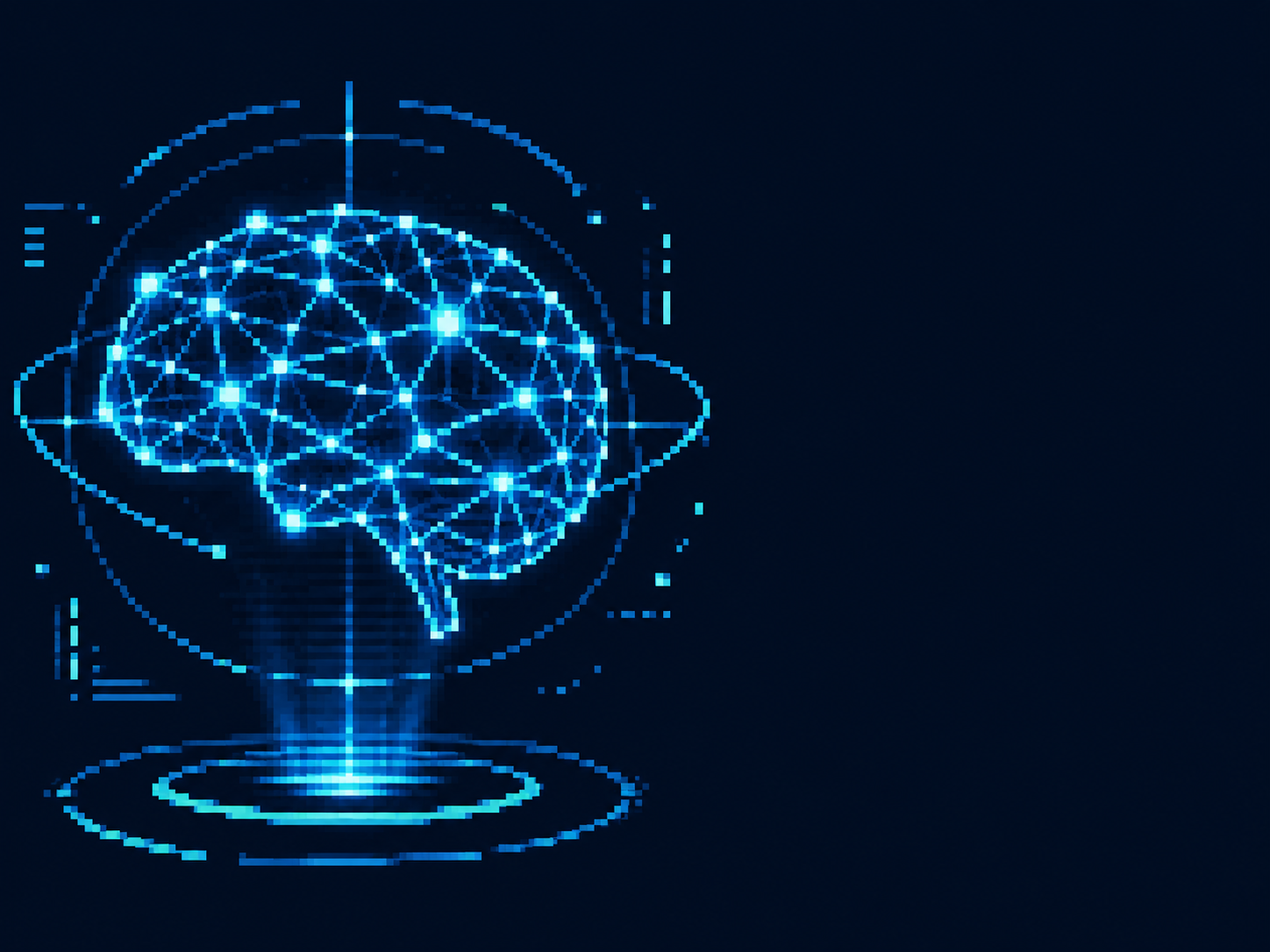
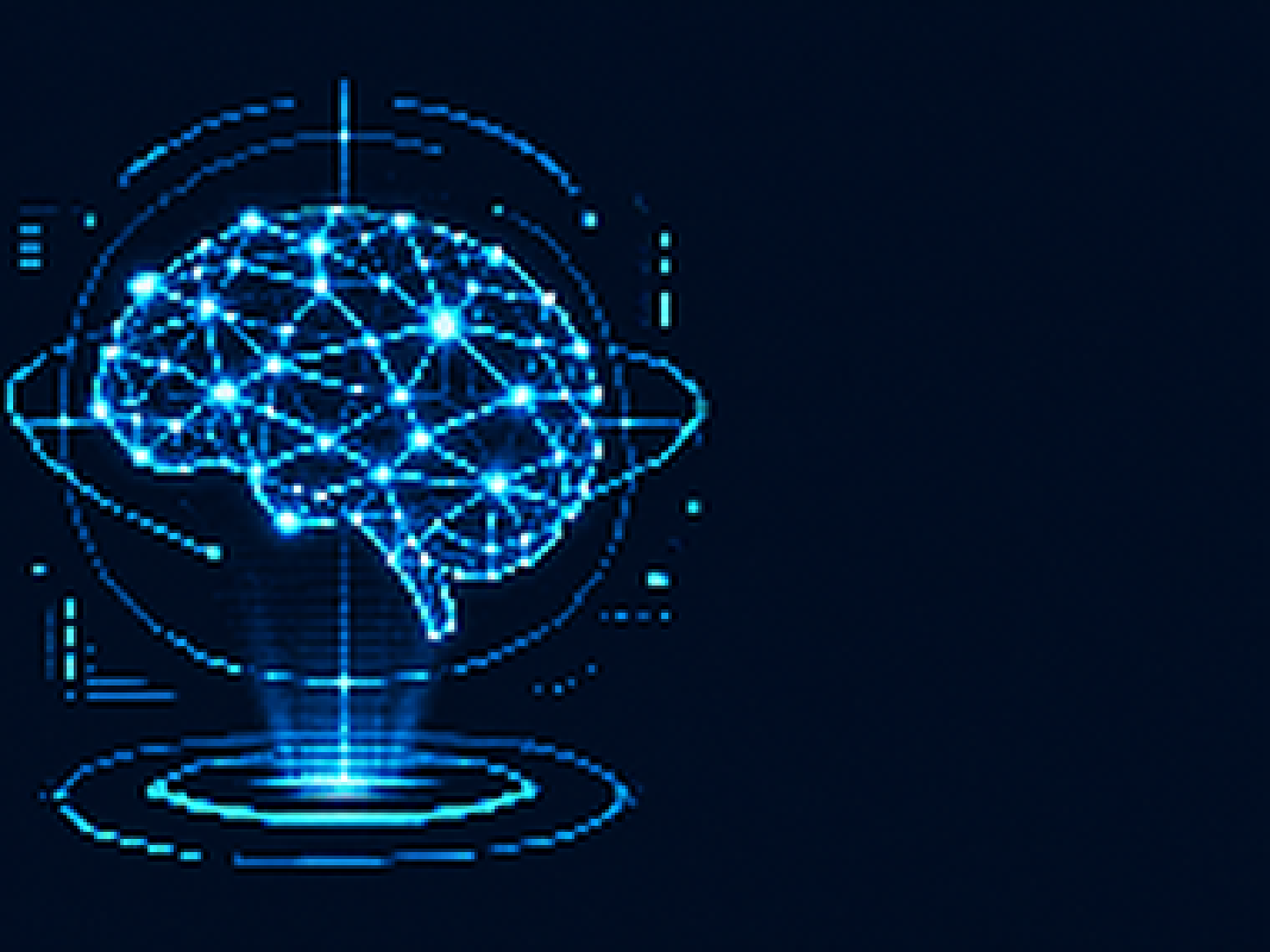
ARIA's picture at the portraits' pixel size; nav charts: bold dark yellow land, light yellow shallows; no doubled Captain
Claude-Session: https://claude.ai/code/session_01QsU1qWh9Lm4CoQ2smq7FHb

Changed region(s): [[0.0, 0.0608, 0.5594, 0.942], [0.5283, 0.5166, 0.5594, 0.5773]]

diff --git a/tablet/js/nd.js b/tablet/js/nd.js
@@ -41,12 +41,16 @@ export function createND(wrap, { onPick, stage = false, units = 1, contours = fa
   const WSKR_NM = 3;
   // Sonar sets how much of the sea floor is mapped in detail: sonar on 4 nm, off 0.8 nm (echo sounder only), active sweep 8 nm.
   const fineNm = (s) => sim.fineNm(s);
-  const shade = (l) => (l === 0 ? 'rgba(255,214,120,0.9)' : l > -100 ? 'rgba(130,215,255,0.40)' : l > -500 ? 'rgba(90,170,255,0.45)' : 'rgba(110,130,255,0.55)');
+  // Land and shallows (owner, 2026-11-27): the coast (0 m) is a bold dark yellow; water 20 m deep or less is outlined in light yellow (from the fine
+  // charts, so only where we have charted). Deeper contours stay blue.
+  const LAND = '#d4a000', SHALLOW = 'rgba(255,240,165,0.8)';
+  const shade = (l) => (l === 0 ? LAND : l > -100 ? 'rgba(130,215,255,0.40)' : l > -500 ? 'rgba(90,170,255,0.45)' : 'rgba(110,130,255,0.55)');
   function strokeLevels(levels, p, w, h, fine, ox = 0, oy = 0) {
     for (const lv of levels) {
       if (fine && (lv.l === 0 || !(lv.l > -200 || (lv.l > -1000 ? lv.l % 20 === 0 : lv.l > -3500 ? lv.l % 50 === 0 : lv.l % 100 === 0)))) continue;   // 10 m on the shelf, then every 20 m to 1000 m, 50 m to 3500 m and 100 m below: finer than before so the deep canyon keeps its detail
-      ctx.strokeStyle = fine ? (lv.l % 100 === 0 ? 'rgba(130,200,255,0.55)' : 'rgba(110,190,230,0.26)') : shade(lv.l);
-      ctx.lineWidth = lv.l === 0 ? 1.8 : fine ? 0.9 : 1.1; ctx.beginPath();
+      const shallow = fine && lv.l >= -20;
+      ctx.strokeStyle = shallow ? SHALLOW : fine ? (lv.l % 100 === 0 ? 'rgba(130,200,255,0.55)' : 'rgba(110,190,230,0.26)') : shade(lv.l);
+      ctx.lineWidth = lv.l === 0 ? 3 : shallow ? 1.4 : fine ? 0.9 : 1.1; ctx.beginPath();
       for (const ln of lv.lines) {
         const a = ln.a, n = a.length / 2;
         if (p.x(ln.x1) < -20 - ox || p.x(ln.x0) > w + 20 + ox || p.y(ln.y0) < -20 - oy || p.y(ln.y1) > h + 20 + oy) continue;   // outside the view

diff --git a/tablet/js/stations/crew.js b/tablet/js/stations/crew.js
@@ -289,7 +289,7 @@ export function mount(body, ctx, opts = {}) {
     if (c.id === 'executiveOfficer' && pendingDecisions().length) { gameState.updateProperty('progress.met.' + c.id, true); greeted = true; page = 'decision'; markRead(); render(); return; }   // ARIA is waiting for an answer
     if (INTRO[c.id] && !met) { gameState.updateProperty('progress.met.' + c.id, true); greeted = true; logLine(c.id, 'crew', fill(INTRO[c.id])); reply = { said: null, text: fill(INTRO[c.id]) }; page = 'reply'; markRead(); render(); return; }   // first meeting comes before anything they were holding back
     const held = takeHeld(c.id);   // what they tried to tell the Captain while he was elsewhere
-    if (held.length) { greeted = true; reply = { said: null, text: held.map((h) => (/^Captain\b/.test(h) ? h : `Captain, ${h.charAt(0).toLowerCase()}${h.slice(1)}`)).join(' '), held: true }; page = 'reply'; } else page = 'cat';
+    if (held.length) { greeted = true; reply = { said: null, text: held.map((h) => (/\bCaptain\b/.test(h) ? h : `Captain, ${h.charAt(0).toLowerCase()}${h.slice(1)}`))   /* no "Captain," in front of a line that already says Captain */.join(' '), held: true }; page = 'reply'; } else page = 'cat';
     markRead(); render();
   }
   function render() {

diff --git a/docs/HANDOFF.md b/docs/HANDOFF.md
@@ -1,6 +1,6 @@
 # Handoff (read this first when a session starts; update it before parking)
 
-Last updated: 2026-11-27. Branch to work on: `tablet`. Repo: NickWest27/AquaNova (GitHub Pages path `/AquaNova/`). Last change: sonar modes (owner, 2026-11-27). OFF (about 1 nm, contacts lost), PASSIVE (listening, the normal setting), ACTIVE: pings every 20 s; each ping is a ripple drawn on the SNR screen and the nav charts, spreading at 1.5 nm a second; once the first ripple has passed a vessel it is heard twice as far (traffic.js). Everyone hears a ping: poachers inside 24 nm run (`spooked`), other hostiles inside 36 nm come for us (`drawn`); Alex says so when he can see it. Active draws a little more power. The Active button is on the SNR page (centre pad, five buttons); Alex's Sonar orders are Go passive, Go active, Sonar off. The full sweep is now a mapping sweep with the survey sensors: +30 power while it runs, the chart filled in to 12 nm, it no longer helps hearing. Normal mapping is 4 nm whatever the sonar does (sim.fineNm). bubble_nm 20 to 28 (data/world/traffic.json). Tests: sonar_test (active, ripple reach, pings, sweep power and chart, poacher runs, hostile closes), seafloor_test. Before that docking and undocking say one message each (dock.js `sequence(text, sounds, done)`; the clamp and shore power sounds still play at their steps); Alex reports a hostile contact when first heard (as before) and again once it is identified, if it was unidentified at first (traffic.js `identSaid`). dock_sleep_test fixed (reads Marcus's held message). notices_test is out of date (written for the old overhead stack, `.bt-stack`), needs rewriting. Before that bridge overhead panel: battery dropped from the status line; notices queue (one at a time, each held 5 to 12 s by length, repeats dropped, at most 6 waiting; `readMs` in bridge.js). Before that ARIA no longer announces a new mission (no 'New task' and no 'New Mission Started'); she congratulates the Captain 5 s after a mission completes, mentioning the report when one went out in the last 15 s (app.js, mission-notify). She only speaks: the report transfer and OERA's reply mail keep their own timing. Before that no status strip and no line at the foot of the screen (owner, 2026-11-27). The status strip (`.dock`) is hidden everywhere (the bridge's overhead panel carries position, time and battery). A crew line that does not open the dialogue (a reply to a button, an action report) goes to that crew member's communicator log and the pin pulses (`pin-pulse` event); on the bridge it is still a notice on the overhead console; a line from the crew member you are talking to just appears in the dialogue (behind Continue). `toast()` confirmations from PED and logbook buttons (Note saved, Copied, Export failed) still use the foot line. Tests updated: aria_test, unlock_test, dock_sleep_test read the communicator log. Before that who reports the launch bay (owner, 2026-11-27): Lt. Washington (`security`) reports the Tern's launches and recoveries (away, alongside, aboard, readying, taking aboard, the Fetch Remora order and the Tern bringing Remora home) and a parted Remora tether; Dr. Patel (`science`) Remora's launches and recoveries; Alex (`sensors`) everything WSKR (the tether-blocks-the-doors line moved from Chief Doyle). The Tern's mission lines (ashore, low battery, adrift) stay with Marcus; her radio calls with Nicole. Before that sounds limited to their rooms (owner, 2026-11-27; `HEARD_IN` and `play()` in app.js): sonar new/lost contact, depth warning and the teletype only on the bridge; launch bay hatches, flooding, pumping, launches only in the launch bay (the bay loop keeps running silently, so walking in you hear it); the engine room loop only in engineering; the hull (impacts, crash, groans, diving, docking clamps), alarms, the drive, sonar pings, doors and the communicator everywhere. Before that new walkway pictures (owner, 2026-11-27; old ones kept as `art_src/rooms/walkway*_original_v1.jpg`). A1: straight corridor, BRIDGE at the end, Science near left, Medical far left, Quarters near right (signs on the black panels; the far right door unused). AN-1: Launch Bay is the left end door, Engineering the near right door (the right end door, near left door and ladder unused). Pre-existing failures noticed: `science_test`, `bridge_test` (fail the same without this change). Before that docking sounds (owner, 2026-11-27: metallic thuds): `dockBump`, `dockClamps`, `clampRelease`, `shorePower`, played on the steps of the dock sequence (dock.js); room doors open, then shut behind (walkway to walkway has no door). Before that launch bay cycle sounds (owner, 2026-11-27: hatches are quick, equalising takes time): `BAY_PLAN` in app.js plays cues at fractions of the bay op (game time). Launch: inner hatch open, close, flood loop (most of the 60 s), outer hatch open, the craft goes, outer hatch closes. Recovery: outer hatch open, close, pump-out loop, inner hatch open, close. Full volume in the launch bay, 30% elsewhere. New sounds `hatchOpen`, `hatchClose`, loops `bayFlood`, `bayPump`. Impact, crash and distant explosion get soft saturation (`DRIVE` in sfx.js) so they read on iPad speakers. Test `tools/bay_sound_test.py` (uses `window.__sfxLog` in audio.js). Before that sounds (owner, 2026-11-27): the interface sounds (communicator chirp, mail open/close, notice, action tick, data up/down/done/fail) moved from audio.js into sfx.js, so the sound board has them (audio.js plays them through its sliders); general quarters gong removed; crash, hull groan, power up and power down remade; impact and distant explosion heavier; the fan loop is now `hullFlow`, water past the hull, played by audio.js on the Ship slider and louder with speed; `shipHum` and `ventilation` loops on the board. Newly wired in app.js: power down (super cruise off), depth warning (depth cap), sonar new contact / contact lost (events from sonar.js, at most one blip per 4 s), launch bay flooding (launch) and draining (recovery), WSKR launch whoosh, bubbles when the Tern or Remora leaves, bubbles diving and a splash surfacing, hull groans below 400 m every few minutes, teletype for an incoming message; impact/crash only on a real hit (not the map edge or AO warning). Not wired yet: distant explosion, radio beep, button press/error, radio static, reactor hum. Before that Alex's dialogue picture and face (`sensors`); Marcus and Alex: their consoles are matched to the bridge colours, the plain backdrop stays dark and blank for the text (`PLAIN` in `tools/crew_art.py`; a blurred bridge backdrop was tried and dropped by the owner: wrong sense of where they sit). Before that crew scene backgrounds shifted toward their room's colours (bridge, engineering, launch bay; figure kept as drawn; masks `art_src/crew/<id>_mask.png`, `ROOM` and `BG_STRENGTH` in `tools/crew_art.py`). Before that new crew scene pictures (Marcus over the shoulder, replacing the first one, kept as `art_src/crew/helm_scene_v1.png`; Chief Doyle; Lt. Washington), made by `tools/crew_art.py`; text box per picture in `SCENE_BOX` (Marcus right but short of his hand, Washington left, Doyle across the bottom with the choices in two columns). Before that desk pads are banks of five (range buttons gone, the yellow keys do range; SNR contact buttons Scan, Probe, Clear moved to the right pad, Investigate renamed Probe; the Sensors station keeps its own − RANGE +). Open: the left pad still has six pages (TAC is a stub). Before that bridge desk (owner, 2026-11-27): the three desk pads are warped to the slant of their holes; DSP moved from the right pad to the round trackpad (lamp lit while on); the two yellow keys left of the centre display are RANGE + / − with the signs printed on; the overhead panel carries the status (position, date, time, BAT) and the screen-edge strip is hidden on the bridge; before that sound board in the PED (Settings > Sound > Sound board opens it full screen over the game; the buttons live in `tablet/js/soundboardKit.js`, shared with the stand-alone page `tablet/soundboard.html`, published at `.../AquaNova/tablet/tablet/soundboard.html`: note the double `tablet`); before that sound board for the owner (every sound in sfx.js and the theme on a button, rename and Copy names); before that NEW BRIDGE FRAME (the owner's picture of 2026-11-27, 1024x765, holes cut from its painted checkerboard; source `art_src/rooms/bridge_original.png`, colour-matched by `tools/even_palette.py`, Retro copy snapped from it). Marcus at the centre helm (tap him to talk; his left monitor opens the Helm station; his two small monitors show heading/speed and depth/floor), Nicole left, Alex right. The three desk pads are one row each: HLM's depth and cruise buttons moved to the right pad. The status strip moves to the top on the bridge (`body.on-bridge`). Walkway exit: bottom-left corner. Before that: 16-bit sound effects library (`tablet/js/sfx.js`, 32 sounds; previews `docs/audio/sfx/`, reel `docs/audio/sfx_reel.mp3` + `.txt`, rendered by `tools/render_sfx.py`; Effects slider in PED Settings). Wired: general alarm, impact/crash, fire and flooding alarms, super cruise power-up and engage, emergency blow, sonar sweep ping, doors between rooms, the engine room loop, radio squelch when the communicator opens; before that short crew lines show as notices on the bridge's overhead console (two lines, whole panel); ARIA's hints wait at least a minute; bigger overhead and nav log text; the vertical profile uses the nav screen's colours (warning yellow and red kept); before that every crew message opens the dialogue (hints, reports, objective lines); only the reply to a button press (`tell()`) and action ticks stay a short line at the foot of the screen (notify.js); before that main title "Beneath the Waves" (original, 16-bit style, `tablet/js/theme.js`; PED Settings > Play theme; render with `tools/render_theme.py` to `docs/audio/aqua_nova_theme.mp3`); before that the communicator never replaces what the Captain is reading: new lines wait behind "Continue" (crew.js readTo); before that fixed Restart from the beginning (a new game was no longer recognised because 'pick up the communicator' now starts as waiting; `commsLocked` in app.js; test `tools/restart_test.py`); before that no discovery notes in the logbook (arrivals to the PED Journal, records to PED Findings); before that one task at a time (objective status 'waiting' until the step before is done; follow-on missions start after a short saved pause; the PED shows done steps, the current one and how many are to come); super cruise spools up for 8 s and eases in and out, any other power setting drops it; Route editor Edit button and a degrees-and-minutes read-back in the waypoint dialog; the trials escort (OERA Seaward, CGC Vigilant) on AIS; the 300 m depth is a certification step (story bible); before that route planner fix (trips over about 120 nm fell off the search grid and were reported as blocked: `route.js` now grows its cells on long trips; test in `tools/route_test.mjs`); the commissioning orders give the AO's centre point, not its corners; before that walkway A1, walkway AN-1 and medbay back to the colour-matched pictures (a pixel-art rebuild by filter looked smudged; they need redrawing to be as crisp as the launch bay); stray speckles removed from the Retro copies; BRIDGE sign on A1 drawn by the game; before that rooms open with the story and crew join the communicator when their room is visited (`rooms.js`, see `docs/COMMS_AND_PROGRESSION.md`); ARIA's bridge introduction; before that crew renamed (Lt. Andre Washington for security, Chief Engineer Ryan Doyle; see `docs/STORY_BIBLE.md`); the Captain's lines in the communicator are conversational (`SAY` in `stations/crew.js`); Call another station; Take me to my quarters removed; before that communicator menu tidied and First Contact completes on ARIA's introduction (see `docs/HELM_AND_ORDERS.md`); before that portraits and dialogue screens for Marcus, ARIA and Dr. Patel (`tools/crew_art.py`, sources in `art_src/crew/`; text box side per picture: `SCENE_BOX` in art.js); before that room pictures evened out to the Engineering picture's brightness and colour (`tools/even_palette.py`; the untouched originals are in `art_src/rooms/`, outside the served folders: a new room picture goes there first, then run the script, which also remakes the Retro copies); bigger crew tap areas on the bridge; before that the owner's testing list (below, all 18 items); before that the quarters wall screen cycles NAV, synthetic vision, sonar, WSKRs and ship status (`quartersScreen.js`, tap = next page, 10 s each; test `tools/quarters_screen_test.py`); pushing the trials for records with a risk of light damage (`trials.js`); story bible brought up to date; before that Sea Trials became the commissioning trip to the Trials AO (welcome letter in the logbook, commissioning orders by mail, Welcome to the AO mail; nav, eng and super cruise commissioned in steps; see the tutorial table in `docs/COMMS_AND_PROGRESSION.md`); before that the owner's welcome letter in the logbook; before that general alarm (ARIA order + engineering button; red lighting and frames; faster fire/flood response if sounded first; see `docs/ENGINEERING.md`); before that the Engineering room shows the ship's state (core glow amber/red, live console screens, red alarm for fire/flooding; see `docs/ENGINEERING.md`); before that the engineering computer; before that the 90s dialogue screen for Nicole; before that Nicole's portrait; before that walkway AN-1 and Engineering on the owner's pictures (every room is now 4:3); before that site survey (`survey.js`, Survey site on SONAR, Seabed survey missions) and the XO tends Remora before getting under way; before that Remora's tether parts past its length, the Tern fetches her (`tools/tether_test.py`); before that PED, communicator and corner buttons in the 4:3 box; before that Launch Bay as instruments, WSKRs have their own launch bays, standard target readout (`readout.js`), Full sweep 36 s; before that station pages are a 4:3 page (1024 x 768) scaled like the stage; before that pages fit the screen (`tools/fit_test.py`) and Sensors has SONAR and WSKRs only; before that contact tracking (detection chance, names belong to tracks, probable matches, signatures on file: `docs/CONTACT_TRACKING.md`); before that identified ships saved; before that one zoom direction everywhere ("+" zooms in) and round map zoom buttons; before that the bridge original picture with real transparent holes; before that the medbay on the owner's picture (after bridge, walkway A1, quarters, science lab, launch bay).
+Last updated: 2026-11-27. Branch to work on: `tablet`. Repo: NickWest27/AquaNova (GitHub Pages path `/AquaNova/`). Last change: ARIA's picture rebuilt at the other portraits' pixel size (sampled on its 190x143 art grid, doubled smoothly; original kept as `art_src/crew/executiveOfficer_scene_v1.png`); held lines that already say Captain get no extra "Captain," in front; nav charts: the coast is a bold dark yellow (land), the 10 and 20 m contours light yellow (shallows, where charted). Before that sonar modes (owner, 2026-11-27). OFF (about 1 nm, contacts lost), PASSIVE (listening, the normal setting), ACTIVE: pings every 20 s; each ping is a ripple drawn on the SNR screen and the nav charts, spreading at 1.5 nm a second; once the first ripple has passed a vessel it is heard twice as far (traffic.js). Everyone hears a ping: poachers inside 24 nm run (`spooked`), other hostiles inside 36 nm come for us (`drawn`); Alex says so when he can see it. Active draws a little more power. The Active button is on the SNR page (centre pad, five buttons); Alex's Sonar orders are Go passive, Go active, Sonar off. The full sweep is now a mapping sweep with the survey sensors: +30 power while it runs, the chart filled in to 12 nm, it no longer helps hearing. Normal mapping is 4 nm whatever the sonar does (sim.fineNm). bubble_nm 20 to 28 (data/world/traffic.json). Tests: sonar_test (active, ripple reach, pings, sweep power and chart, poacher runs, hostile closes), seafloor_test. Before that docking and undocking say one message each (dock.js `sequence(text, sounds, done)`; the clamp and shore power sounds still play at their steps); Alex reports a hostile contact when first heard (as before) and again once it is identified, if it was unidentified at first (traffic.js `identSaid`). dock_sleep_test fixed (reads Marcus's held message). notices_test is out of date (written for the old overhead stack, `.bt-stack`), needs rewriting. Before that bridge overhead panel: battery dropped from the status line; notices queue (one at a time, each held 5 to 12 s by length, repeats dropped, at most 6 waiting; `readMs` in bridge.js). Before that ARIA no longer announces a new mission (no 'New task' and no 'New Mission Started'); she congratulates the Captain 5 s after a mission completes, mentioning the report when one went out in the last 15 s (app.js, mission-notify). She only speaks: the report transfer and OERA's reply mail keep their own timing. Before that no status strip and no line at the foot of the screen (owner, 2026-11-27). The status strip (`.dock`) is hidden everywhere (the bridge's overhead panel carries position, time and battery). A crew line that does not open the dialogue (a reply to a button, an action report) goes to that crew member's communicator log and the pin pulses (`pin-pulse` event); on the bridge it is still a notice on the overhead console; a line from the crew member you are talking to just appears in the dialogue (behind Continue). `toast()` confirmations from PED and logbook buttons (Note saved, Copied, Export failed) still use the foot line. Tests updated: aria_test, unlock_test, dock_sleep_test read the communicator log. Before that who reports the launch bay (owner, 2026-11-27): Lt. Washington (`security`) reports the Tern's launches and recoveries (away, alongside, aboard, readying, taking aboard, the Fetch Remora order and the Tern bringing Remora home) and a parted Remora tether; Dr. Patel (`science`) Remora's launches and recoveries; Alex (`sensors`) everything WSKR (the tether-blocks-the-doors line moved from Chief Doyle). The Tern's mission lines (ashore, low battery, adrift) stay with Marcus; her radio calls with Nicole. Before that sounds limited to their rooms (owner, 2026-11-27; `HEARD_IN` and `play()` in app.js): sonar new/lost contact, depth warning and the teletype only on the bridge; launch bay hatches, flooding, pumping, launches only in the launch bay (the bay loop keeps running silently, so walking in you hear it); the engine room loop only in engineering; the hull (impacts, crash, groans, diving, docking clamps), alarms, the drive, sonar pings, doors and the communicator everywhere. Before that new walkway pictures (owner, 2026-11-27; old ones kept as `art_src/rooms/walkway*_original_v1.jpg`). A1: straight corridor, BRIDGE at the end, Science near left, Medical far left, Quarters near right (signs on the black panels; the far right door unused). AN-1: Launch Bay is the left end door, Engineering the near right door (the right end door, near left door and ladder unused). Pre-existing failures noticed: `science_test`, `bridge_test` (fail the same without this change). Before that docking sounds (owner, 2026-11-27: metallic thuds): `dockBump`, `dockClamps`, `clampRelease`, `shorePower`, played on the steps of the dock sequence (dock.js); room doors open, then shut behind (walkway to walkway has no door). Before that launch bay cycle sounds (owner, 2026-11-27: hatches are quick, equalising takes time): `BAY_PLAN` in app.js plays cues at fractions of the bay op (game time). Launch: inner hatch open, close, flood loop (most of the 60 s), outer hatch open, the craft goes, outer hatch closes. Recovery: outer hatch open, close, pump-out loop, inner hatch open, close. Full volume in the launch bay, 30% elsewhere. New sounds `hatchOpen`, `hatchClose`, loops `bayFlood`, `bayPump`. Impact, crash and distant explosion get soft saturation (`DRIVE` in sfx.js) so they read on iPad speakers. Test `tools/bay_sound_test.py` (uses `window.__sfxLog` in audio.js). Before that sounds (owner, 2026-11-27): the interface sounds (communicator chirp, mail open/close, notice, action tick, data up/down/done/fail) moved from audio.js into sfx.js, so the sound board has them (audio.js plays them through its sliders); general quarters gong removed; crash, hull groan, power up and power down remade; impact and distant explosion heavier; the fan loop is now `hullFlow`, water past the hull, played by audio.js on the Ship slider and louder with speed; `shipHum` and `ventilation` loops on the board. Newly wired in app.js: power down (super cruise off), depth warning (depth cap), sonar new contact / contact lost (events from sonar.js, at most one blip per 4 s), launch bay flooding (launch) and draining (recovery), WSKR launch whoosh, bubbles when the Tern or Remora leaves, bubbles diving and a splash surfacing, hull groans below 400 m every few minutes, teletype for an incoming message; impact/crash only on a real hit (not the map edge or AO warning). Not wired yet: distant explosion, radio beep, button press/error, radio static, reactor hum. Before that Alex's dialogue picture and face (`sensors`); Marcus and Alex: their consoles are matched to the bridge colours, the plain backdrop stays dark and blank for the text (`PLAIN` in `tools/crew_art.py`; a blurred bridge backdrop was tried and dropped by the owner: wrong sense of where they sit). Before that crew scene backgrounds shifted toward their room's colours (bridge, engineering, launch bay; figure kept as drawn; masks `art_src/crew/<id>_mask.png`, `ROOM` and `BG_STRENGTH` in `tools/crew_art.py`). Before that new crew scene pictures (Marcus over the shoulder, replacing the first one, kept as `art_src/crew/helm_scene_v1.png`; Chief Doyle; Lt. Washington), made by `tools/crew_art.py`; text box per picture in `SCENE_BOX` (Marcus right but short of his hand, Washington left, Doyle across the bottom with the choices in two columns). Before that desk pads are banks of five (range buttons gone, the yellow keys do range; SNR contact buttons Scan, Probe, Clear moved to the right pad, Investigate renamed Probe; the Sensors station keeps its own − RANGE +). Open: the left pad still has six pages (TAC is a stub). Before that bridge desk (owner, 2026-11-27): the three desk pads are warped to the slant of their holes; DSP moved from the right pad to the round trackpad (lamp lit while on); the two yellow keys left of the centre display are RANGE + / − with the signs printed on; the overhead panel carries the status (position, date, time, BAT) and the screen-edge strip is hidden on the bridge; before that sound board in the PED (Settings > Sound > Sound board opens it full screen over the game; the buttons live in `tablet/js/soundboardKit.js`, shared with the stand-alone page `tablet/soundboard.html`, published at `.../AquaNova/tablet/tablet/soundboard.html`: note the double `tablet`); before that sound board for the owner (every sound in sfx.js and the theme on a button, rename and Copy names); before that NEW BRIDGE FRAME (the owner's picture of 2026-11-27, 1024x765, holes cut from its painted checkerboard; source `art_src/rooms/bridge_original.png`, colour-matched by `tools/even_palette.py`, Retro copy snapped from it). Marcus at the centre helm (tap him to talk; his left monitor opens the Helm station; his two small monitors show heading/speed and depth/floor), Nicole left, Alex right. The three desk pads are one row each: HLM's depth and cruise buttons moved to the right pad. The status strip moves to the top on the bridge (`body.on-bridge`). Walkway exit: bottom-left corner. Before that: 16-bit sound effects library (`tablet/js/sfx.js`, 32 sounds; previews `docs/audio/sfx/`, reel `docs/audio/sfx_reel.mp3` + `.txt`, rendered by `tools/render_sfx.py`; Effects slider in PED Settings). Wired: general alarm, impact/crash, fire and flooding alarms, super cruise power-up and engage, emergency blow, sonar sweep ping, doors between rooms, the engine room loop, radio squelch when the communicator opens; before that short crew lines show as notices on the bridge's overhead console (two lines, whole panel); ARIA's hints wait at least a minute; bigger overhead and nav log text; the vertical profile uses the nav screen's colours (warning yellow and red kept); before that every crew message opens the dialogue (hints, reports, objective lines); only the reply to a button press (`tell()`) and action ticks stay a short line at the foot of the screen (notify.js); before that main title "Beneath the Waves" (original, 16-bit style, `tablet/js/theme.js`; PED Settings > Play theme; render with `tools/render_theme.py` to `docs/audio/aqua_nova_theme.mp3`); before that the communicator never replaces what the Captain is reading: new lines wait behind "Continue" (crew.js readTo); before that fixed Restart from the beginning (a new game was no longer recognised because 'pick up the communicator' now starts as waiting; `commsLocked` in app.js; test `tools/restart_test.py`); before that no discovery notes in the logbook (arrivals to the PED Journal, records to PED Findings); before that one task at a time (objective status 'waiting' until the step before is done; follow-on missions start after a short saved pause; the PED shows done steps, the current one and how many are to come); super cruise spools up for 8 s and eases in and out, any other power setting drops it; Route editor Edit button and a degrees-and-minutes read-back in the waypoint dialog; the trials escort (OERA Seaward, CGC Vigilant) on AIS; the 300 m depth is a certification step (story bible); before that route planner fix (trips over about 120 nm fell off the search grid and were reported as blocked: `route.js` now grows its cells on long trips; test in `tools/route_test.mjs`); the commissioning orders give the AO's centre point, not its corners; before that walkway A1, walkway AN-1 and medbay back to the colour-matched pictures (a pixel-art rebuild by filter looked smudged; they need redrawing to be as crisp as the launch bay); stray speckles removed from the Retro copies; BRIDGE sign on A1 drawn by the game; before that rooms open with the story and crew join the communicator when their room is visited (`rooms.js`, see `docs/COMMS_AND_PROGRESSION.md`); ARIA's bridge introduction; before that crew renamed (Lt. Andre Washington for security, Chief Engineer Ryan Doyle; see `docs/STORY_BIBLE.md`); the Captain's lines in the communicator are conversational (`SAY` in `stations/crew.js`); Call another station; Take me to my quarters removed; before that communicator menu tidied and First Contact completes on ARIA's introduction (see `docs/HELM_AND_ORDERS.md`); before that portraits and dialogue screens for Marcus, ARIA and Dr. Patel (`tools/crew_art.py`, sources in `art_src/crew/`; text box side per picture: `SCENE_BOX` in art.js); before that room pictures evened out to the Engineering picture's brightness and colour (`tools/even_palette.py`; the untouched originals are in `art_src/rooms/`, outside the served folders: a new room picture goes there first, then run the script, which also remakes the Retro copies); bigger crew tap areas on the bridge; before that the owner's testing list (below, all 18 items); before that the quarters wall screen cycles NAV, synthetic vision, sonar, WSKRs and ship status (`quartersScreen.js`, tap = next page, 10 s each; test `tools/quarters_screen_test.py`); pushing the trials for records with a risk of light damage (`trials.js`); story bible brought up to date; before that Sea Trials became the commissioning trip to the Trials AO (welcome letter in the logbook, commissioning orders by mail, Welcome to the AO mail; nav, eng and super cruise commissioned in steps; see the tutorial table in `docs/COMMS_AND_PROGRESSION.md`); before that the owner's welcome letter in the logbook; before that general alarm (ARIA order + engineering button; red lighting and frames; faster fire/flood response if sounded first; see `docs/ENGINEERING.md`); before that the Engineering room shows the ship's state (core glow amber/red, live console screens, red alarm for fire/flooding; see `docs/ENGINEERING.md`); before that the engineering computer; before that the 90s dialogue screen for Nicole; before that Nicole's portrait; before that walkway AN-1 and Engineering on the owner's pictures (every room is now 4:3); before that site survey (`survey.js`, Survey site on SONAR, Seabed survey missions) and the XO tends Remora before getting under way; before that Remora's tether parts past its length, the Tern fetches her (`tools/tether_test.py`); before that PED, communicator and corner buttons in the 4:3 box; before that Launch Bay as instruments, WSKRs have their own launch bays, standard target readout (`readout.js`), Full sweep 36 s; before that station pages are a 4:3 page (1024 x 768) scaled like the stage; before that pages fit the screen (`tools/fit_test.py`) and Sensors has SONAR and WSKRs only; before that contact tracking (detection chance, names belong to tracks, probable matches, signatures on file: `docs/CONTACT_TRACKING.md`); before that identified ships saved; before that one zoom direction everywhere ("+" zooms in) and round map zoom buttons; before that the bridge original picture with real transparent holes; before that the medbay on the owner's picture (after bridge, walkway A1, quarters, science lab, launch bay).
 
 ## Owner's testing list (2026-11-26): all done 2026-11-27, waiting for the owner to test on the iPad
 Rooms and signs
